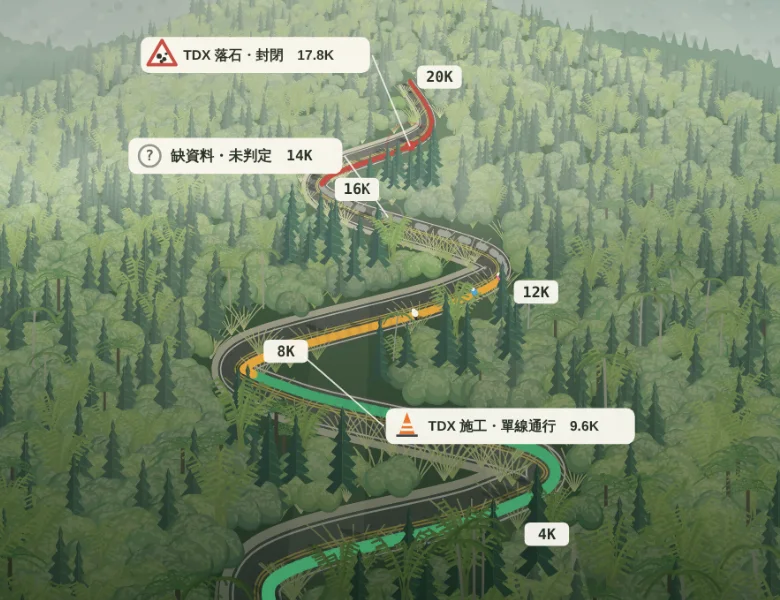
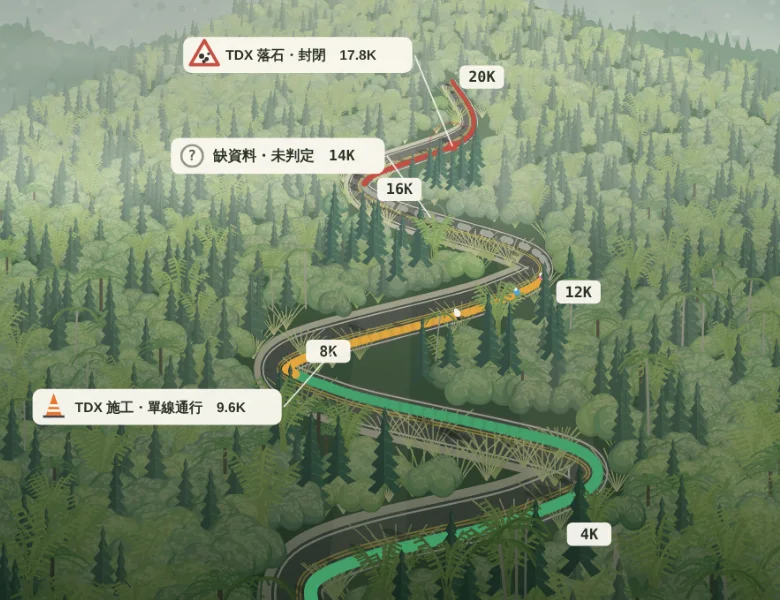
fix(web): 入口頁 footer 加半透明底、9.6K 示警卡移到路左側避免重疊
- 右欄服務條款與資料來源在桌機背景上加 80% 白底，淺色模式可讀
- 9.6K 施工卡改放路的左側，1280/1440/1920 都不再被 footer 蓋住
- 手機靜態圖裁切框左移，9.6K 卡完整入鏡

diff --git a/strava-route-system/apps/web/src/components/auth/login-view.tsx b/strava-route-system/apps/web/src/components/auth/login-view.tsx
@@ -137,23 +137,25 @@ export function LoginView({ featured }: { featured: ReactNode }) {
           {featured}
         </motion.div>
 
-        {/* Footer */}
-        <motion.p
+        {/* Footer：桌機壓在背景圖上，加半透明底保持可讀 */}
+        <motion.div
           initial={{ opacity: 0 }}
           animate={{ opacity: 1 }}
           transition={{ duration: 0.5, delay: 0.4 }}
-          className="relative z-10 mt-8 text-center text-xs text-muted-foreground"
+          className="relative z-10 mt-8 lg:mt-6 lg:rounded-xl lg:bg-card/80 lg:px-4 lg:py-2 lg:backdrop-blur-xl"
         >
-          繼續使用即表示您同意我們的{" "}
-          <Link href="/terms" className="text-primary hover:underline">
-            服務條款
-          </Link>
-          與
-          <Link href="/privacy" className="text-primary hover:underline">
-            隱私政策
-          </Link>
-        </motion.p>
-        <SiteFooter className="relative z-10 mt-3" />
+          <p className="text-center text-xs text-muted-foreground">
+            繼續使用即表示您同意我們的{" "}
+            <Link href="/terms" className="text-primary hover:underline">
+              服務條款
+            </Link>
+            與
+            <Link href="/privacy" className="text-primary hover:underline">
+              隱私政策
+            </Link>
+          </p>
+          <SiteFooter className="mt-1.5" />
+        </motion.div>
       </div>
     </div>
   );

diff --git a/strava-route-system/apps/web/scripts/landing-scene/scene.html b/strava-route-system/apps/web/scripts/landing-scene/scene.html
@@ -115,7 +115,7 @@
   const ROUTE_KM = 20;
   const LEVELS = ["go", "go", "slow", "unknown", "stop"];
   const EVENTS = [
-    { km: 9.6, kind: "work", label: "TDX 施工・單線通行", side: 1, dy: 74 },
+    { km: 9.6, kind: "work", label: "TDX 施工・單線通行", side: -1, dy: 56 },
     { km: 14, kind: "nodata", label: "缺資料・未判定", side: -1, dy: -58 },
     { km: 17.8, kind: "rock", label: "TDX 落石・封閉", side: -1, dy: -86 },
   ];
@@ -400,7 +400,7 @@
     // 手機橫幅：判定、里程牌與示警都畫完的畫面，裁出山路區塊（390:300）
     const full = document.createElement("canvas"); full.width = w; full.height = h;
     sceneHillside(full.getContext("2d"), w, h, 20, rand(7), null, st);
-    const k = h / 1000, sw = 1600 * 0.46 * k, sh = sw * (300 / 390), sx = 1600 * 0.315 * k, sy = h - sh - 6 * k;
+    const k = h / 1000, sw = 1600 * 0.46 * k, sh = sw * (300 / 390), sx = 1600 * 0.29 * k, sy = h - sh - 6 * k;
     const m = document.createElement("canvas"); m.width = 780; m.height = 600;
     m.getContext("2d").drawImage(full, sx, sy, sw, sh, 0, 0, 780, 600);
     return { bg: webp(st.bg, 0.84), front: webp(st.front, 0.86), leaves: webp(st.leavesR, 0.86), mobile: webp(m, 0.84) };

diff --git a/strava-route-system/apps/web/src/components/auth/dawn-scene.ts b/strava-route-system/apps/web/src/components/auth/dawn-scene.ts
@@ -20,7 +20,7 @@ const ROUTE_KM = 20;
 type EventKind = "work" | "nodata" | "rock";
 /** TDX 示警與缺資料的位置（示意），side 為標示卡在路的哪一側，dy 為垂直位移 */
 const EVENTS: { km: number; kind: EventKind; label: string; side: 1 | -1; dy: number }[] = [
-  { km: 9.6, kind: "work", label: "TDX 施工・單線通行", side: 1, dy: 74 },
+  { km: 9.6, kind: "work", label: "TDX 施工・單線通行", side: -1, dy: 56 },
   { km: 14, kind: "nodata", label: "缺資料・未判定", side: -1, dy: -58 },
   { km: 17.8, kind: "rock", label: "TDX 落石・封閉", side: -1, dy: -86 },
 ];
